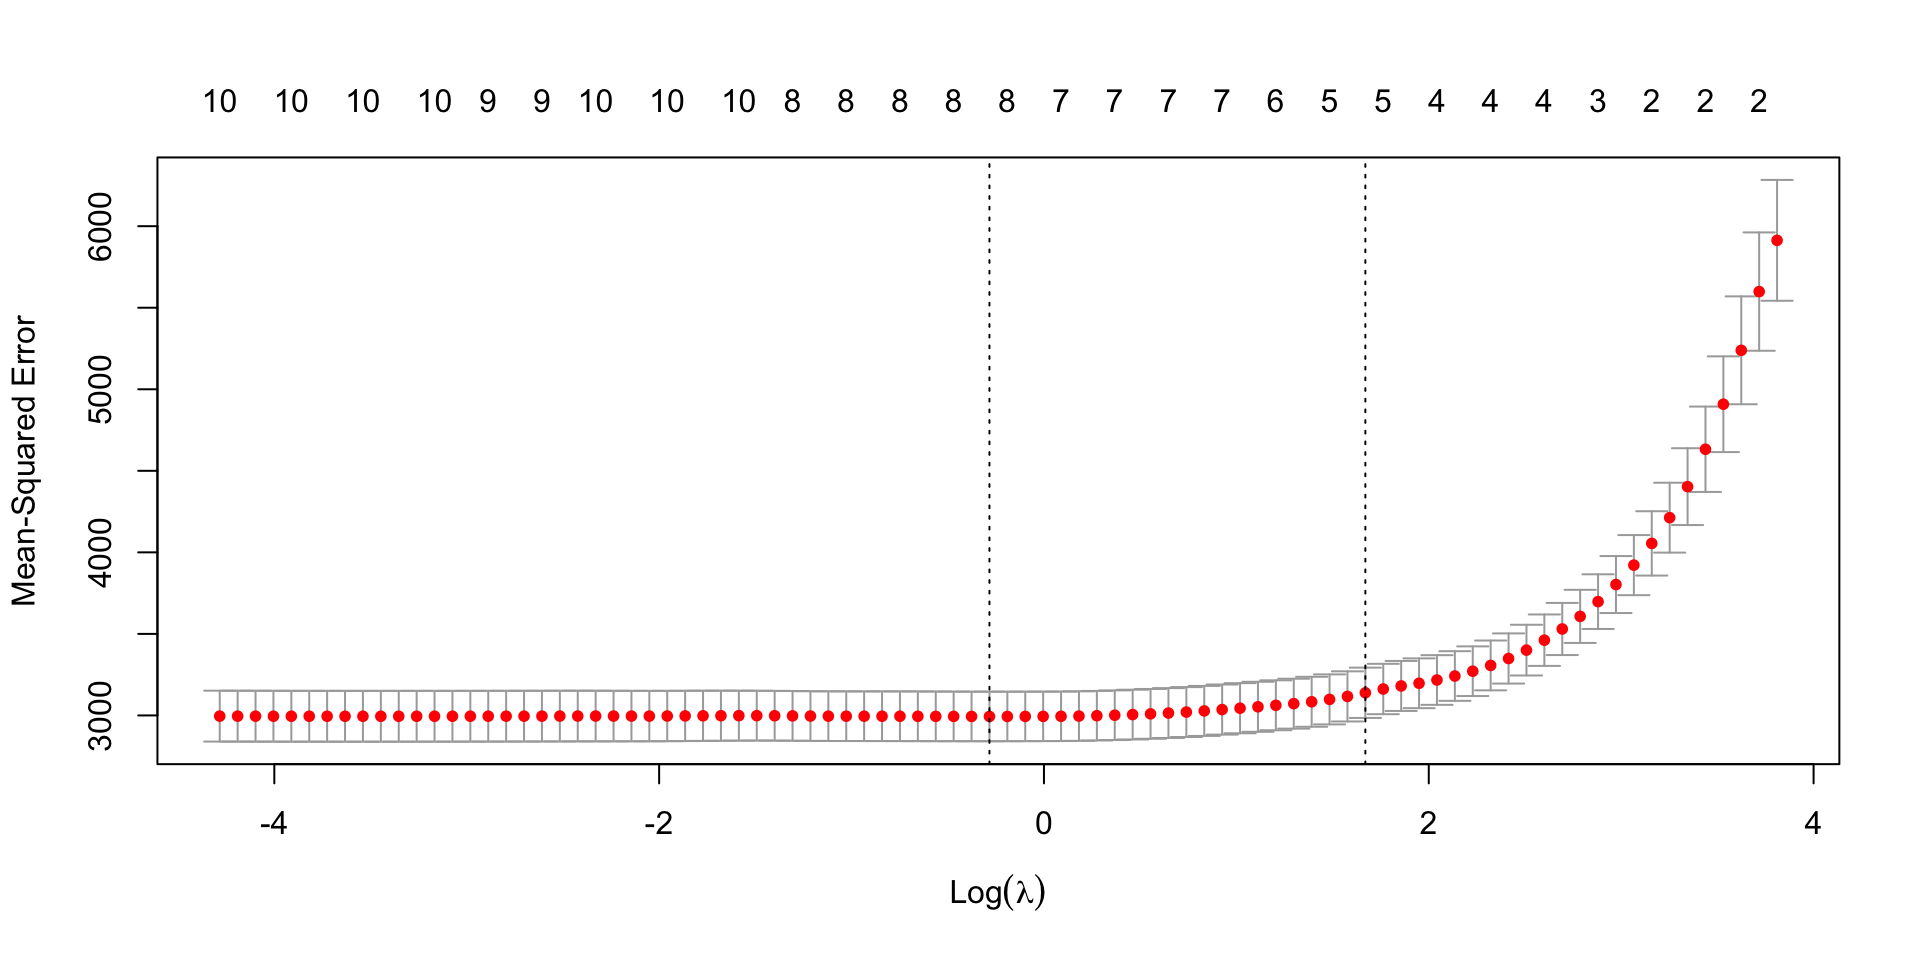
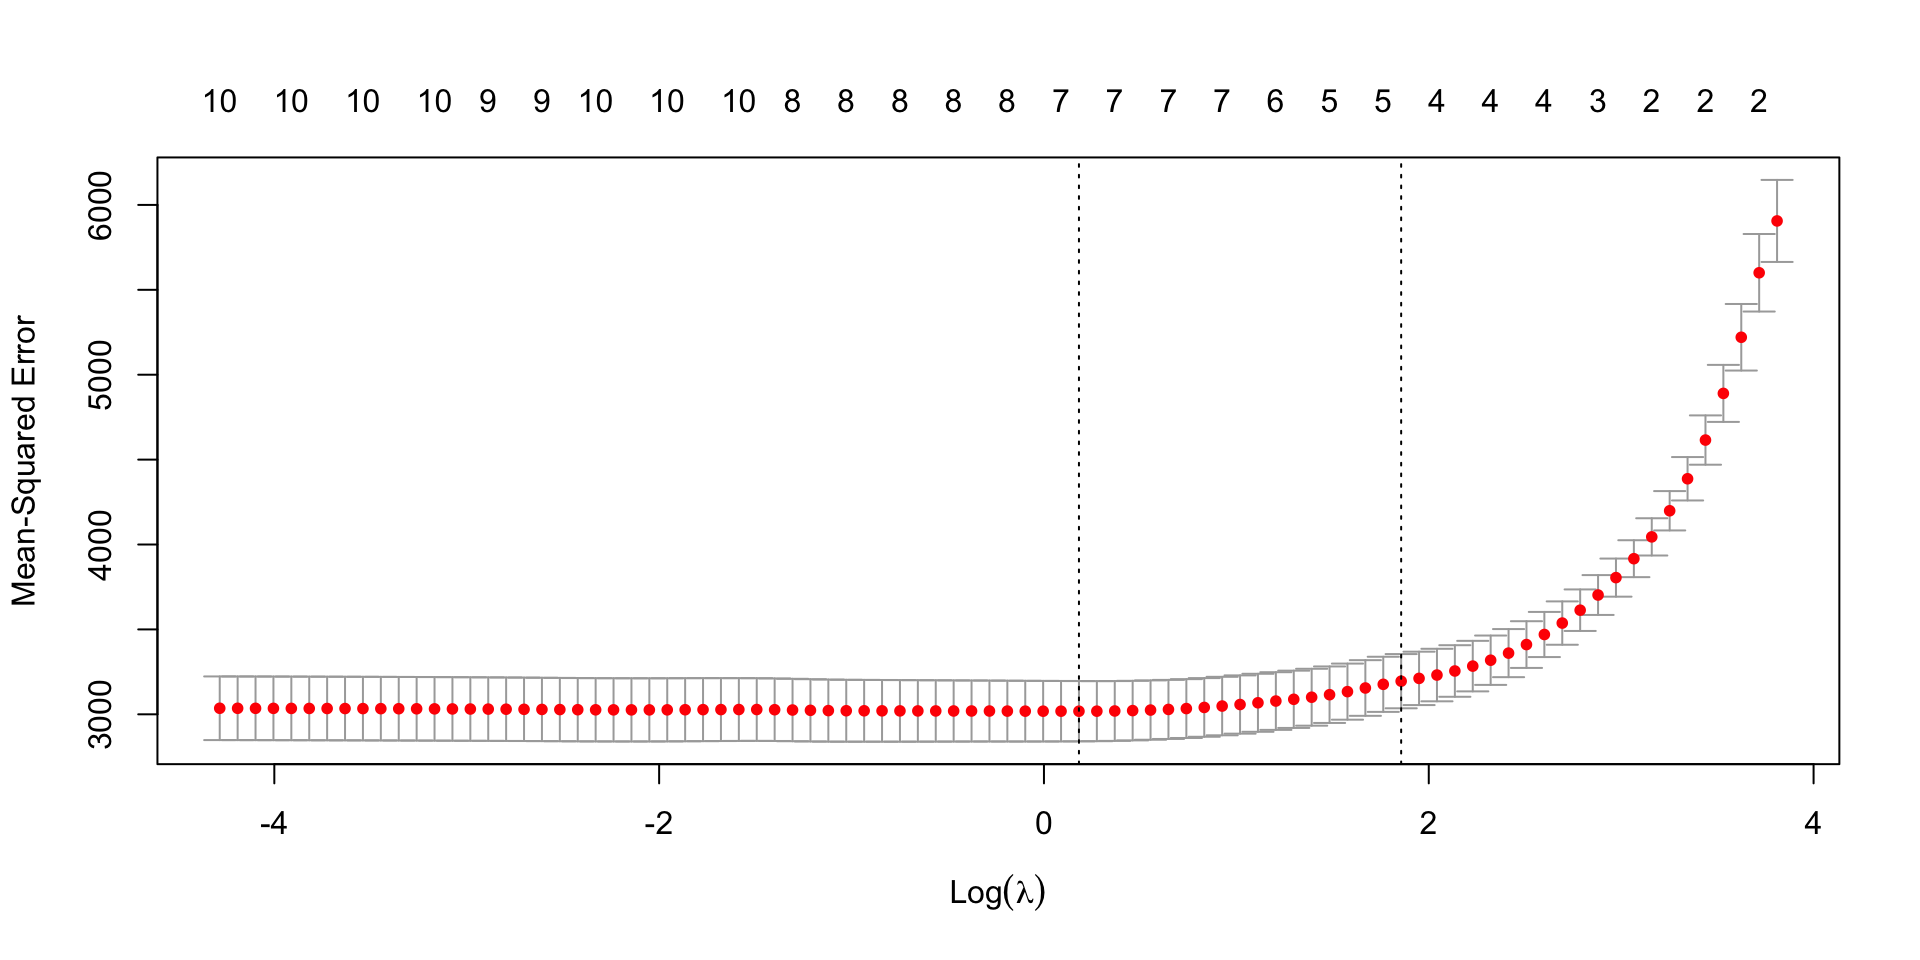
Built site for gh-pages

diff --git a/glm.html b/glm.html
@@ -77,6 +77,35 @@ ul.task-list li input[type="checkbox"] {
   </style>
   
 
+  <script src="https://cdnjs.cloudflare.com/polyfill/v3/polyfill.min.js?features=es6"></script>
+  <script src="https://cdn.jsdelivr.net/npm/mathjax@3/es5/tex-chtml-full.js" type="text/javascript"></script>
+
+<script type="text/javascript">
+const typesetMath = (el) => {
+  if (window.MathJax) {
+    // MathJax Typeset
+    window.MathJax.typeset([el]);
+  } else if (window.katex) {
+    // KaTeX Render
+    var mathElements = el.getElementsByClassName("math");
+    var macros = [];
+    for (var i = 0; i < mathElements.length; i++) {
+      var texText = mathElements[i].firstChild;
+      if (mathElements[i].tagName == "SPAN") {
+        window.katex.render(texText.data, mathElements[i], {
+          displayMode: mathElements[i].classList.contains('display'),
+          throwOnError: false,
+          macros: macros,
+          fleqn: false
+        });
+      }
+    }
+  }
+}
+window.Quarto = {
+  typesetMath
+};
+</script>
 
 </head>
 
@@ -185,9 +214,11 @@ ul.task-list li input[type="checkbox"] {
    
   <ul>
   <li><a href="#lecture-slides" id="toc-lecture-slides" class="nav-link active" data-scroll-target="#lecture-slides"><span class="header-section-number">8.1</span> Lecture Slides</a></li>
-  <li><a href="#lab" id="toc-lab" class="nav-link" data-scroll-target="#lab"><span class="header-section-number">8.2</span> Lab</a></li>
-  <li><a href="#homework" id="toc-homework" class="nav-link" data-scroll-target="#homework"><span class="header-section-number">8.3</span> Homework</a></li>
-  <li><a href="#further-reading" id="toc-further-reading" class="nav-link" data-scroll-target="#further-reading"><span class="header-section-number">8.4</span> Further reading</a></li>
+  <li><a href="#lab-1" id="toc-lab-1" class="nav-link" data-scroll-target="#lab-1"><span class="header-section-number">8.2</span> Lab </a>
+  <ul class="collapse">
+  <li><a href="#guided-solution" id="toc-guided-solution" class="nav-link" data-scroll-target="#guided-solution"><span class="header-section-number">8.2.1</span> Guided solution</a></li>
+  </ul></li>
+  <li><a href="#further-reading" id="toc-further-reading" class="nav-link" data-scroll-target="#further-reading"><span class="header-section-number">8.3</span> Further reading</a></li>
   </ul>
 </nav>
     </div>
@@ -221,19 +252,50 @@ ul.task-list li input[type="checkbox"] {
     </div>
   
 </section>
-<section id="lab" class="level2" data-number="8.2">
-<h2 data-number="8.2" class="anchored" data-anchor-id="lab"><span class="header-section-number">8.2</span> Lab</h2>
+<section id="lab-1" class="level2" data-number="8.2">
+<h2 data-number="8.2" class="anchored" data-anchor-id="lab-1"><span class="header-section-number">8.2</span> Lab <a href="#fn1" class="footnote-ref" id="fnref1" role="doc-noteref"><sup>1</sup></a></h2>
+<p>In the United States, there have been significant and historical declines in cigarette smoking. In the 1970s, 75% of high school seniors were smoking, that number is below 10% now. This progress is largely due to the tobacco control movement and their focus on initiatives like ending advertising to children (like Joe Camel), passing indoor smoking laws, health communication, etc.</p>
+<p>According to a recent report, overall tobacco/nicotine use increased in youths (middle school and high school students) in the United States in 2017 and 2018, despite previous years of declining use.</p>
+<p>This major increase is attributed to an increase in the use of electronic cigarette (e-cigarette) products.</p>
+<p>The main questions are:</p>
+<ol type="1">
+<li>How has tobacco and e-cigarette/vaping use by American youths changed since 2015?</li>
+<li>How does e-cigarette use compare between males and females?</li>
+<li>What vaping brands and flavors appear to be used the most frequently?</li>
+<li>Is there a relationship between e-cigarette/vaping use and other tobacco use?</li>
+</ol>
+<section id="guided-solution" class="level3" data-number="8.2.1">
+<h3 data-number="8.2.1" class="anchored" data-anchor-id="guided-solution"><span class="header-section-number">8.2.1</span> Guided solution</h3>
+<ol type="1">
+<li><p>Read-in the data: because we focused on data wrangling on a previous lab, I suggest that you start from the already cleaned-up version of the data, that you can find <a href="https://raw.githubusercontent.com/opencasestudies/ocs-bp-vaping-case-study/master/data/wrangled/wrangled_data_with_var_for_plots.rda">here</a>.</p>
+<ul>
+<li>Note that you have to use the function <code>load()</code>.</li>
+<li>The “codebook” with the explanation of the variables can be found <a href="https://www.cdc.gov/tobacco/data_statistics/surveys/nyts/zip_files/2019/2019-nyts-dataset-and-codebook-microsoft-excel.zip">here</a></li>
+<li>In addition to the variables in the cookbook, some other variables have been define that sum all the e-cigarette / non-e-cigarette products.</li>
+</ul></li>
+<li><p>Create plots to visualize the data and answer graphically to the questions above.</p></li>
+<li><p>Consider only data from 2015 and fit a model to compare <strong>current use of e-cigarettes</strong> between males and females.</p>
+<ul>
+<li>Compute “by hand” the Odds Ratio (OR) of the use of e-cigarettes between males and females. Who is most likely to smoke e-cigarettes in 2015? By how much?</li>
+<li>Fit a logistic regression model. Is the difference significance? How do you interpret <span class="math inline">\(\beta_1\)</span>? What is its relationship with the OR calculated above? Is it the same?</li>
+</ul></li>
+<li><p>Go back to the full data, and fit a new logistic model that includes, in addition to Sex, year, and “non_ecig_ever”. If appropriate, consider including interactions. What do you conclude?</p></li>
+</ol>
 </section>
-<section id="homework" class="level2" data-number="8.3">
-<h2 data-number="8.3" class="anchored" data-anchor-id="homework"><span class="header-section-number">8.3</span> Homework</h2>
 </section>
-<section id="further-reading" class="level2" data-number="8.4">
-<h2 data-number="8.4" class="anchored" data-anchor-id="further-reading"><span class="header-section-number">8.4</span> Further reading</h2>
+<section id="further-reading" class="level2" data-number="8.3">
+<h2 data-number="8.3" class="anchored" data-anchor-id="further-reading"><span class="header-section-number">8.3</span> Further reading</h2>
 <ul>
 <li>S. Holmes and W. Huber. Modern Statistics for Modern Biology. <a href="https://www.huber.embl.de/msmb/08-chap.html">Chapter 8</a>.</li>
 </ul>
 
 
+</section>
+<section id="footnotes" class="footnotes footnotes-end-of-document" role="doc-endnotes">
+<hr>
+<ol>
+<li id="fn1"><p>This homework is one of the <a href="https://www.opencasestudies.org/">Open Case Studies</a>. Please try to solve this yourself before looking at the solution there.<a href="#fnref1" class="footnote-back" role="doc-backlink">↩</a></p></li>
+</ol>
 </section>
 
 </main> <!-- /main -->

diff --git a/slides/08_Lasso.html b/slides/08_Lasso.html
@@ -210,9 +210,9 @@ Davide Risso
 <h1>Ridge regression</h1>
 
 </section>
-<section id="least-square-estimator" class="slide level2">
-<h2>Least square estimator</h2>
-<p>The least square estimator, given by <span class="math display">\[
+<section id="least-squares-estimator" class="slide level2">
+<h2>Least squares estimator</h2>
+<p>The least squares estimator, given by <span class="math display">\[
 \hat{\beta}=(X^\top X)^{-1} X^\top y
 \]</span></p>
 <p>is the MLE of <span class="math inline">\(\beta\)</span>, unbiased and <span class="math display">\[
@@ -221,7 +221,7 @@ Davide Risso
 </section>
 <section id="a-possible-issue-colinearity" class="slide level2">
 <h2>A possible issue: colinearity</h2>
-<p>Remember that if <span class="math inline">\(X\)</span> is not full rank, <span class="math inline">\(X^\top X\)</span> is singular and we cannot compute the least square estimate.</p>
+<p>Remember that if <span class="math inline">\(X\)</span> is not full rank, <span class="math inline">\(X^\top X\)</span> is singular and we cannot compute the least squares estimate.</p>
 <div class="fragment">
 <p>When <span class="math inline">\(p&gt;n\)</span> we are guaranteed to have colinearity.</p>
 </div>
@@ -371,17 +371,17 @@ F-statistic: 9.556 on 4 and 339 DF,  p-value: 2.481e-07</code></pre>
 <tr class="odd">
 <td style="text-align: left;">X208748_s_at</td>
 <td style="text-align: right;">0.343</td>
-<td style="text-align: right;">0.314</td>
+<td style="text-align: right;">0.311</td>
 </tr>
 <tr class="even">
 <td style="text-align: left;">X208749_x_at</td>
 <td style="text-align: right;">0.211</td>
-<td style="text-align: right;">0.068</td>
+<td style="text-align: right;">0.063</td>
 </tr>
 <tr class="odd">
 <td style="text-align: left;">X210142_x_at</td>
 <td style="text-align: right;">-0.291</td>
-<td style="text-align: right;">-0.175</td>
+<td style="text-align: right;">-0.171</td>
 </tr>
 <tr class="even">
 <td style="text-align: left;">X213819_s_at</td>
@@ -416,7 +416,7 @@ F-statistic: 9.556 on 4 and 339 DF,  p-value: 2.481e-07</code></pre>
 </section>
 <section id="the-lasso-1" class="slide level2 smaller">
 <h2>The lasso</h2>
-<p>One soultion is to use the <span class="math inline">\(\ell_1\)</span> norm, which is a proper norm and leads to a convex problem:</p>
+<p>One solution is to use the <span class="math inline">\(\ell_1\)</span> norm, which is a proper norm and leads to a convex problem:</p>
 <p><span class="math display">\[
 \hat{\beta}(\lambda) = \text{argmin}_\beta \left\{|| y - X\beta ||^2_2 + \lambda || \beta ||_1 \right\}.
 \]</span></p>
@@ -429,7 +429,7 @@ F-statistic: 9.556 on 4 and 339 DF,  p-value: 2.481e-07</code></pre>
 </section>
 <section id="ridge-with-more-sparsity" class="slide level2">
 <h2>Ridge, with more sparsity</h2>
-<p>Of course this is much related to ridge regression, which can be obatined by substituting the constraint <span class="math inline">\(|| \beta ||_2 \leq t\)</span>.</p>
+<p>Of course this is much related to ridge regression, which can be obtained by substituting the constraint <span class="math inline">\(|| \beta ||_2 \leq t\)</span>.</p>
 <div class="fragment">
 <p>A big practical difference is that the lasso’s solution typically has many <span class="math inline">\(\beta_j\)</span>’s exactly equal to 0, which is not the case for ridge.</p>
 </div>
@@ -544,31 +544,31 @@ F-statistic: 9.556 on 4 and 339 DF,  p-value: 2.481e-07</code></pre>
 <div class="cell" data-layout-align="center">
 <div class="sourceCode cell-code" id="cb3"><pre class="sourceCode numberSource r number-lines code-with-copy"><code class="sourceCode r"><span id="cb3-1"><a href=""></a>fit.cv<span class="sc">$</span>lambda.min</span></code><button title="Copy to Clipboard" class="code-copy-button"><i class="bi"></i></button></pre></div>
 <div class="cell-output cell-output-stdout">
-<pre><code>[1] 0.7533147</code></pre>
+<pre><code>[1] 1.19949</code></pre>
 </div>
 </div>
 <div class="cell" data-layout-align="center">
 <div class="sourceCode cell-code" id="cb5"><pre class="sourceCode numberSource r number-lines code-with-copy"><code class="sourceCode r"><span id="cb5-1"><a href=""></a>fit.cv<span class="sc">$</span>lambda<span class="fl">.1</span>se</span></code><button title="Copy to Clipboard" class="code-copy-button"><i class="bi"></i></button></pre></div>
 <div class="cell-output cell-output-stdout">
-<pre><code>[1] 5.314486</code></pre>
+<pre><code>[1] 6.401318</code></pre>
 </div>
 </div>
 <div class="cell" data-layout-align="center">
 <div class="sourceCode cell-code" id="cb7"><pre class="sourceCode numberSource r number-lines code-with-copy"><code class="sourceCode r"><span id="cb7-1"><a href=""></a><span class="fu">coef</span>(fit.cv, <span class="at">s =</span> <span class="st">"lambda.1se"</span>)</span></code><button title="Copy to Clipboard" class="code-copy-button"><i class="bi"></i></button></pre></div>
 <div class="cell-output cell-output-stdout">
 <pre><code>11 x 1 sparse Matrix of class "dgCMatrix"
-                    s1
-(Intercept)  152.13348
-AGE            .      
-SEX          -33.34979
-BMI          508.14348
-BP           210.34230
-S1             .      
-S2             .      
-S3          -138.84266
-S4             .      
-S5           444.58979
-S6             .      </code></pre>
+                   s1
+(Intercept)  152.1335
+AGE            .     
+SEX            .     
+BMI          503.9295
+BP           188.5842
+S1             .     
+S2             .     
+S3          -111.3719
+S4             .     
+S5           438.1315
+S6             .     </code></pre>
 </div>
 </div>
 </section></section>

diff --git a/index.html b/index.html
@@ -7,7 +7,7 @@
 <meta name="viewport" content="width=device-width, initial-scale=1.0, user-scalable=yes">
 
 <meta name="author" content="Davide Risso">
-<meta name="dcterms.date" content="2025-03-18">
+<meta name="dcterms.date" content="2025-03-19">
 
 <title>Advanced Statistics and Data Analysis</title>
 <style>
@@ -225,7 +225,7 @@ ul.task-list li input[type="checkbox"] {
     <div>
     <div class="quarto-title-meta-heading">Published</div>
     <div class="quarto-title-meta-contents">
-      <p class="date">March 18, 2025</p>
+      <p class="date">March 19, 2025</p>
     </div>
   </div>
   
